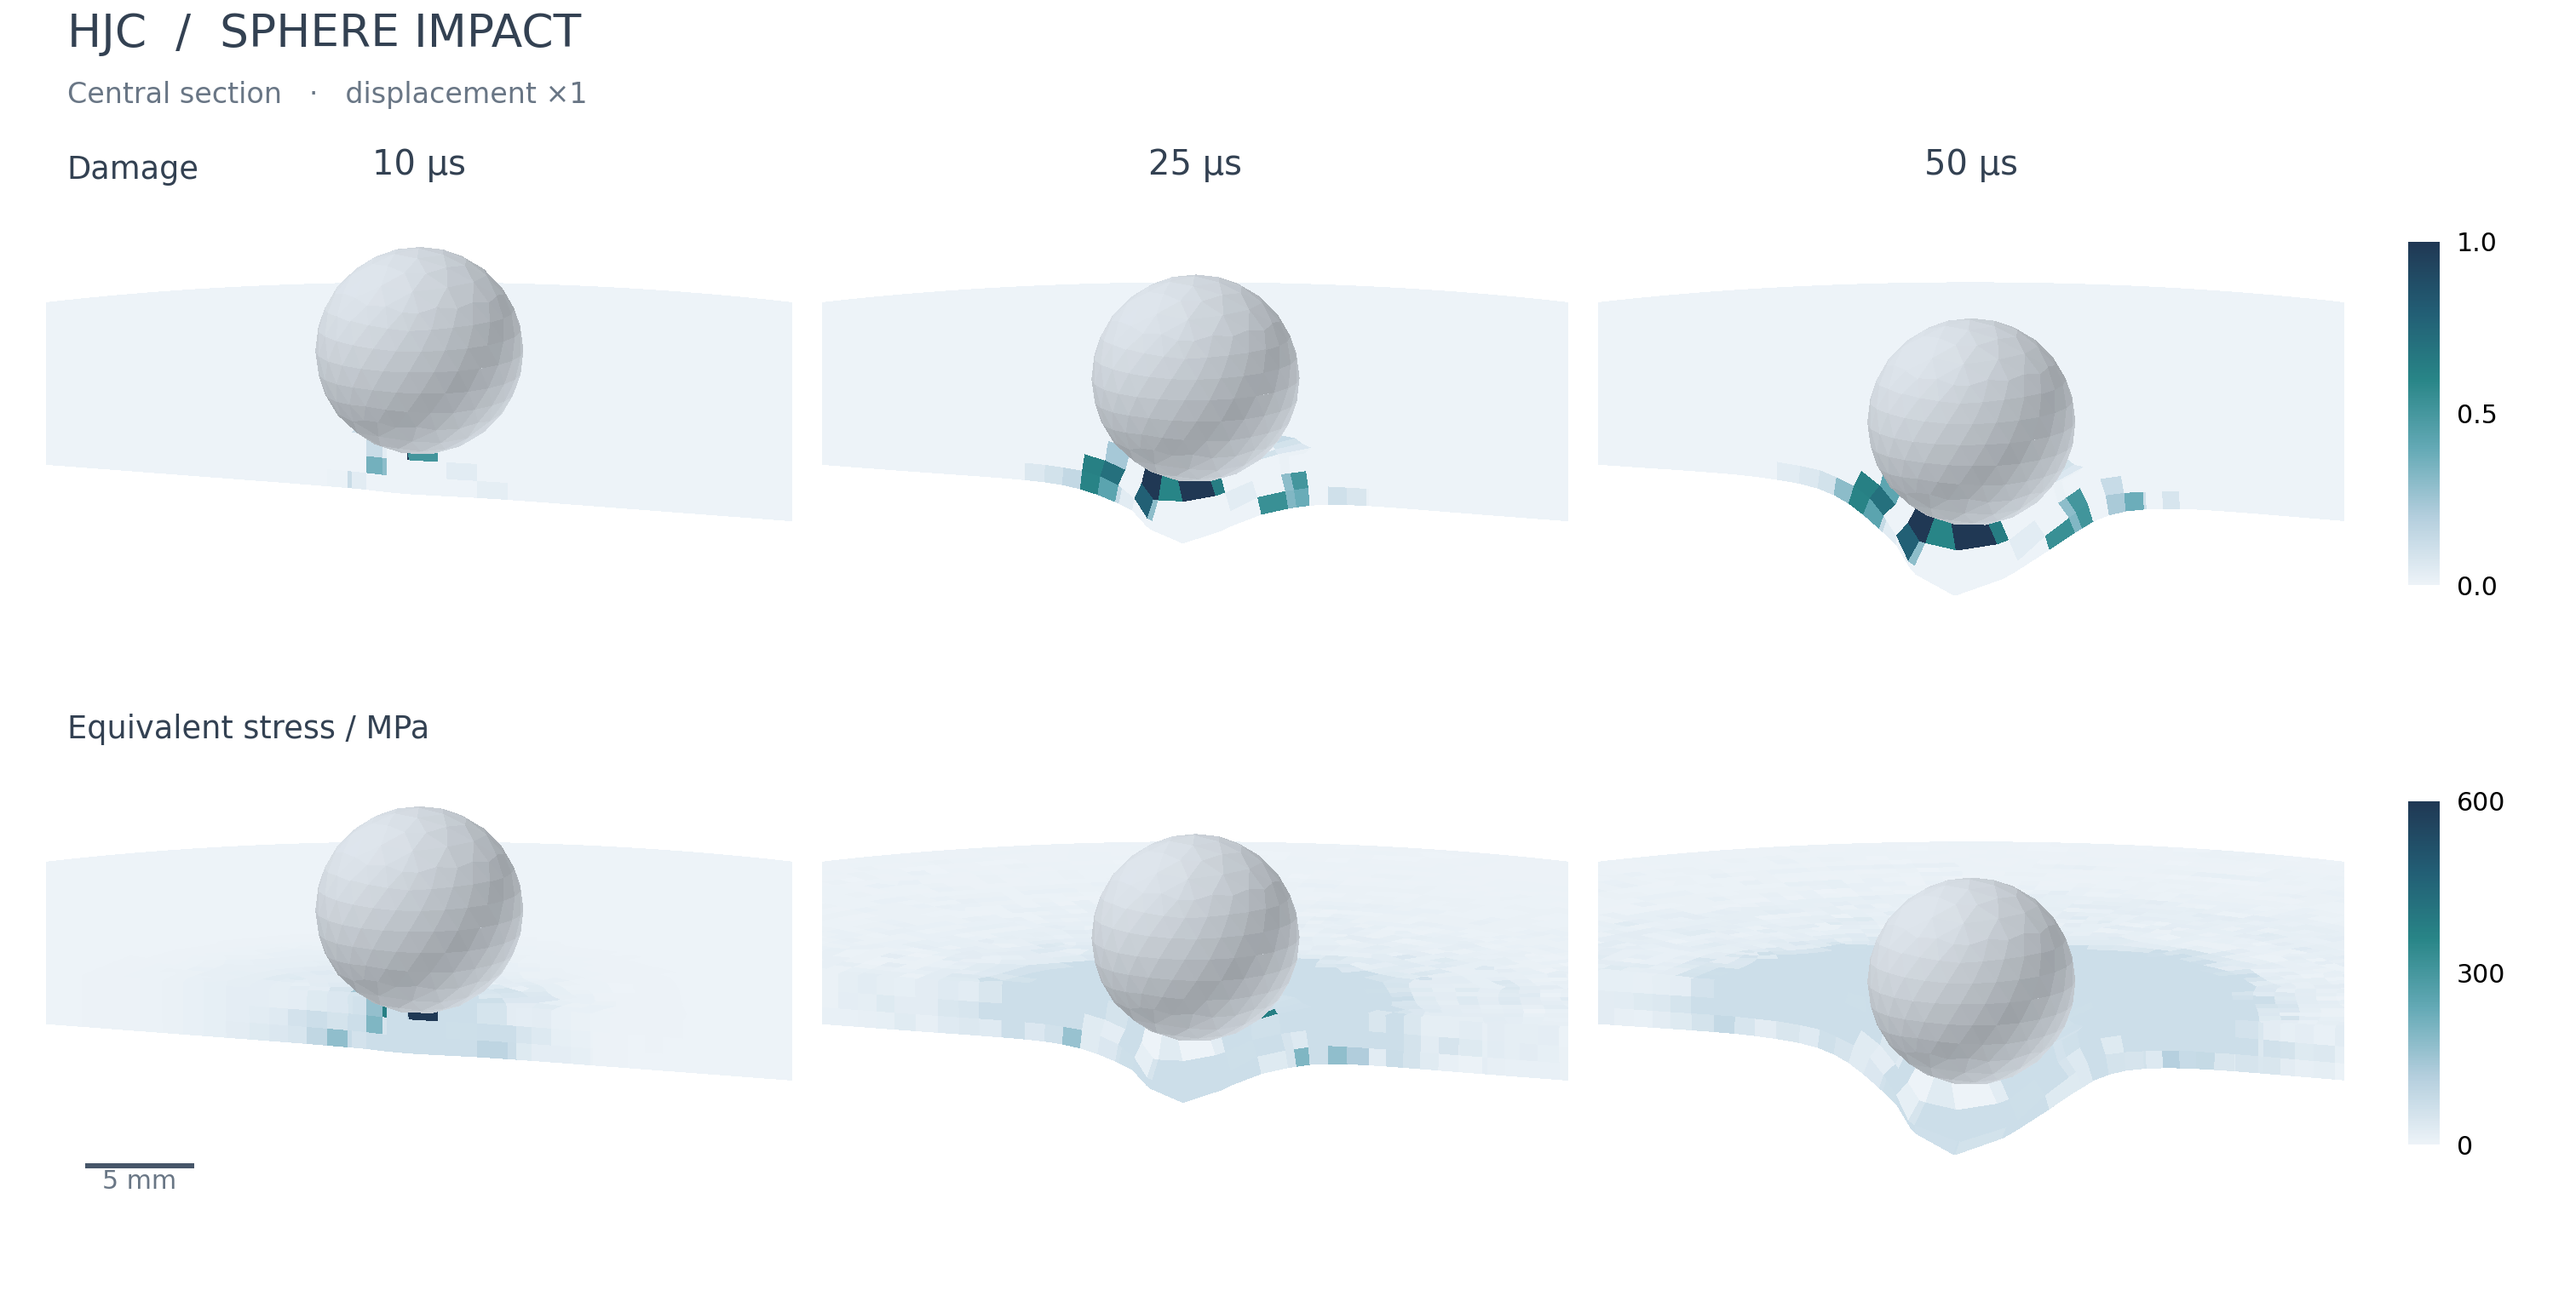
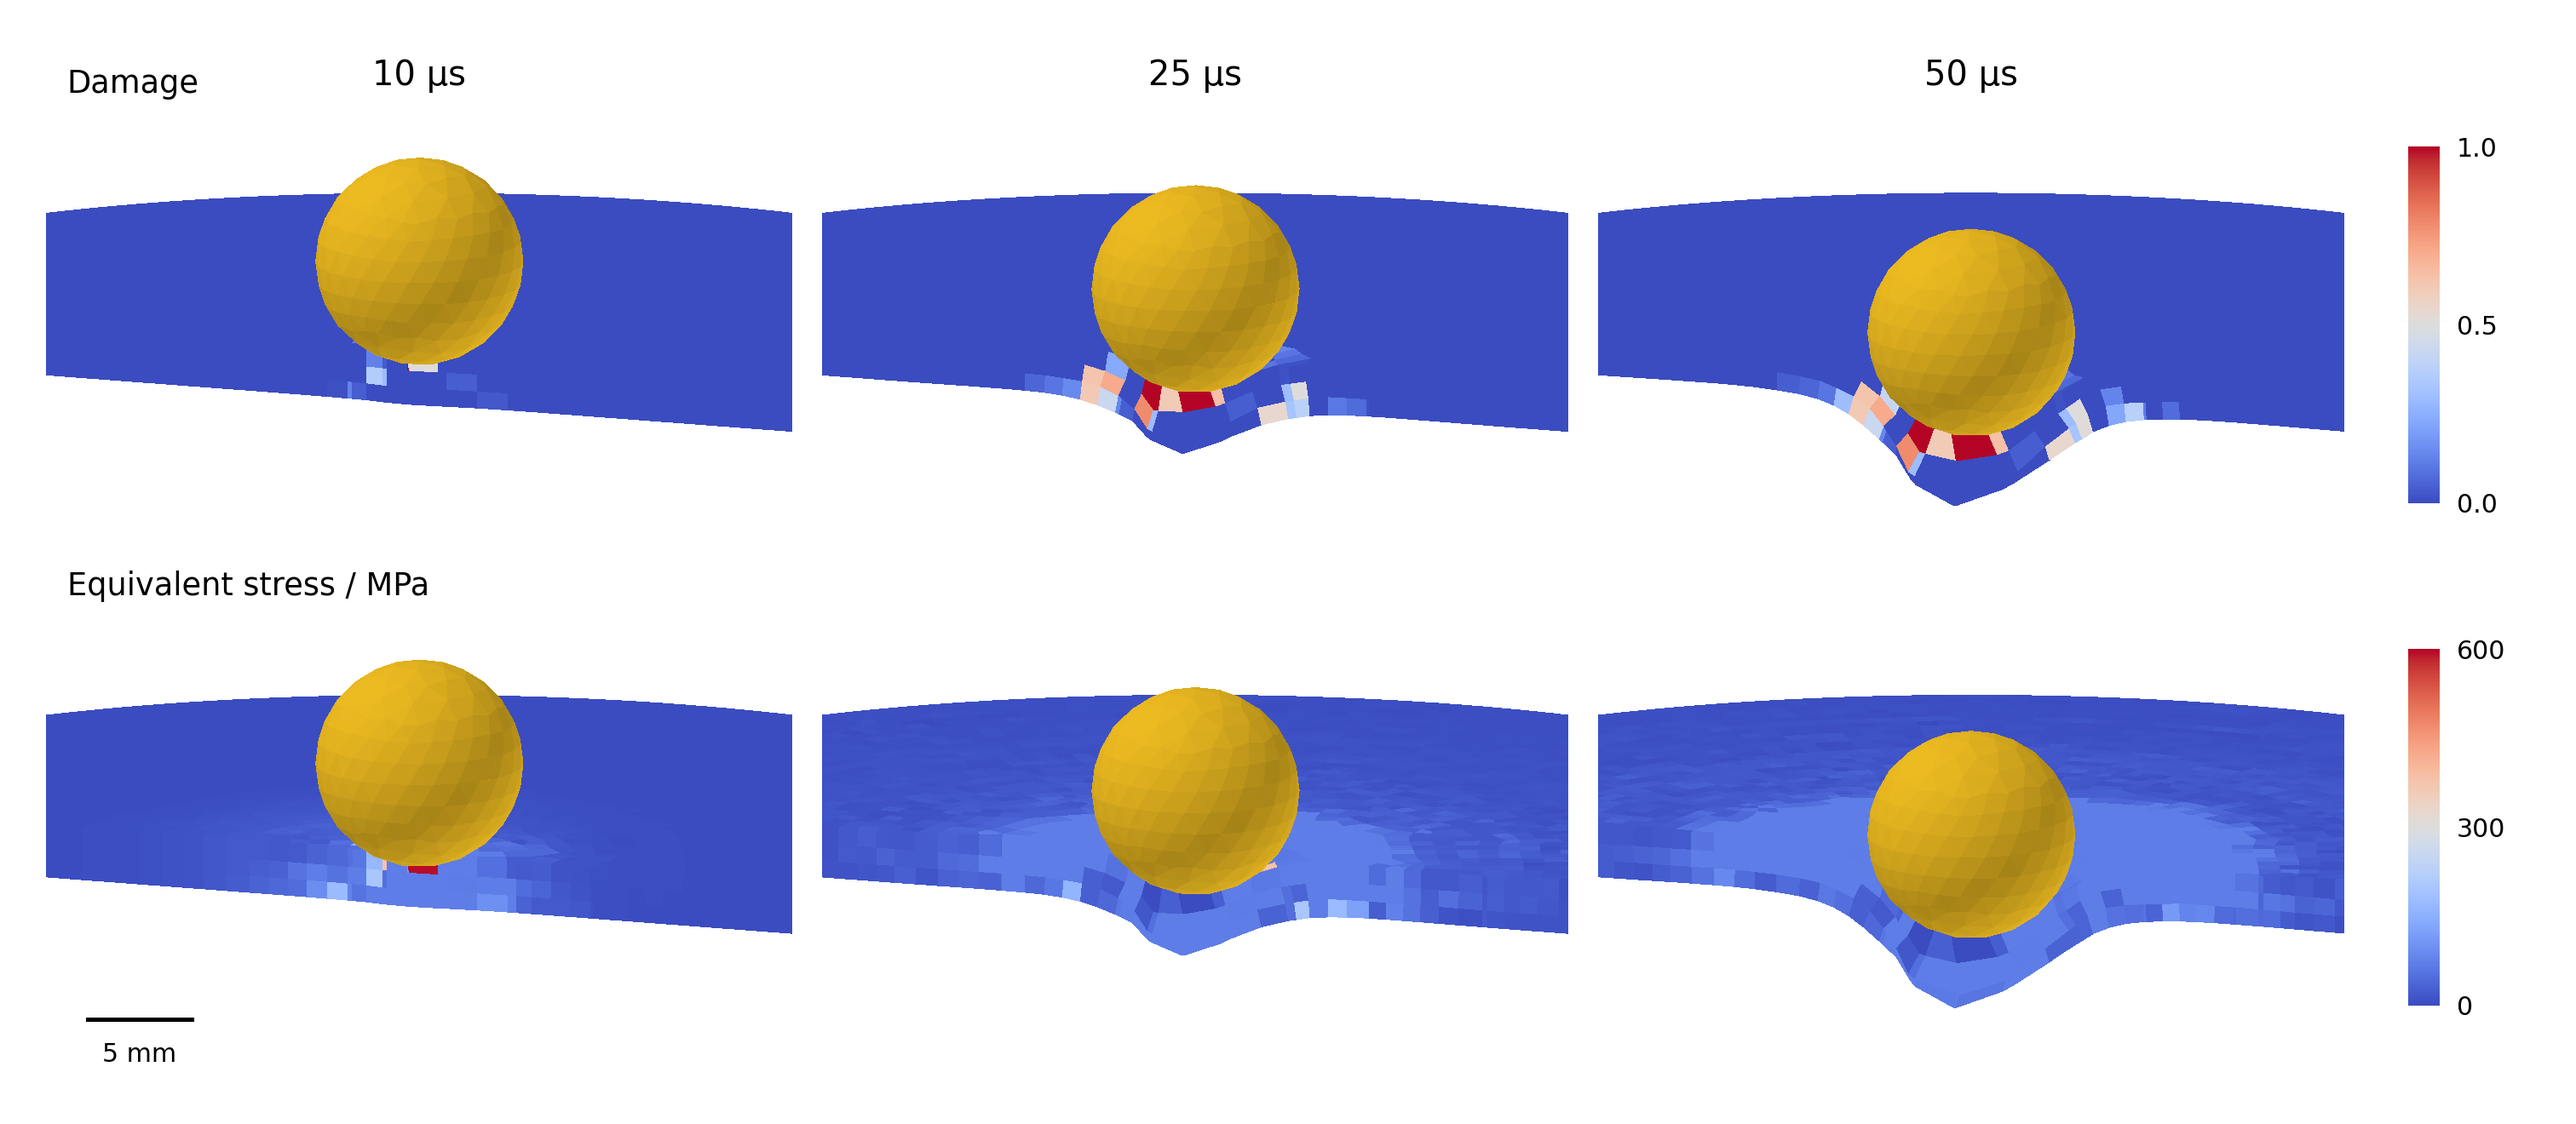
Add target damage views and match example visualizations

diff --git a/examples/hjc/plot_contours.py b/examples/hjc/plot_contours.py
@@ -1,11 +1,12 @@
 #!/usr/bin/env python3
 # SPDX-License-Identifier: BSD-3-Clause
-"""Render HJC impact fields on an advected central section of the original mesh.
+"""Render HJC impact fields on a central section or the target's upper surface.
 
 Requires NumPy, netCDF4 and Matplotlib. Input is serial/merged Exodus output.
 Cell values are not smoothed. Mesh-node displacements are volume averages of
 adjacent material-point displacements, for visualization only. No points are
 deleted based on damage. The disk retains the y>=0 half; the sphere is whole.
+With --top-view, show upper-surface target damage and omit the sphere.
 """
 import argparse
 from pathlib import Path
@@ -13,7 +14,8 @@ from pathlib import Path
 import matplotlib
 matplotlib.use('Agg')
 from matplotlib.collections import PolyCollection
-from matplotlib.colors import LinearSegmentedColormap, Normalize
+from matplotlib.colors import Normalize
+from matplotlib.patches import Rectangle
 import matplotlib.pyplot as plt
 from netCDF4 import Dataset, chartostring
 import numpy as np
@@ -82,6 +84,8 @@ def main():
     parser.add_argument('--times', nargs='+', type=float, default=[10., 25., 50.],
                         help='saved times in microseconds')
     parser.add_argument('--overview', action='store_true', help='show the entire half disk')
+    parser.add_argument('--top-view', action='store_true',
+                        help='target upper-surface damage, with a central close-up')
     parser.add_argument('--output', type=Path, default=Path('impact_contours.png'))
     args = parser.parse_args()
     with Dataset(args.mesh) as mesh, Dataset(args.file) as data:
@@ -98,7 +102,7 @@ def main():
             return np.asarray(data[f'vals_elem_var{index}eb{block}'][frame])
 
         blocks, offset = [], 0
-        for block in (1, 2):
+        for block in ((1,) if args.top_view else (1, 2)):
             cells = np.asarray(mesh[f'connect{block}'][:])-1
             particles = np.asarray(data[f'connect{block}'][:]).ravel()-1
             # Element_Id survives MPI partitioning; never assume output order.
@@ -112,7 +116,13 @@ def main():
                 raise ValueError('invalid material-point volumes')
             weight = np.repeat(volume, cells.shape[1])
             nodal_weight = np.bincount(cells.ravel(), weights=weight, minlength=len(points))
-            faces = section_faces(points, cells, cut=block == 1)
+            faces = section_faces(points, cells, cut=block == 1 and not args.top_view)
+            if args.top_view:
+                top = np.all(np.isclose(points[faces[0], 2], points[cells, 2].max()), axis=1)
+                if not np.any(top):
+                    raise ValueError('no planar upper surface in the target mesh')
+                faces = tuple(values[top] for values in faces)
+                print(f'{len(faces[3])} target upper-surface cells selected')
             blocks.append((block, cells, particles[order], order, weight, nodal_weight, faces))
 
         # Orthographic projection; all lengths and displacements use the same scale.
@@ -121,19 +131,22 @@ def main():
         eye = np.array([np.cos(azimuth)*np.cos(elevation),
                         np.sin(azimuth)*np.cos(elevation), np.sin(elevation)])
         projection = np.stack((right, np.cross(eye, right), eye), axis=1)
-        cmap = LinearSegmentedColormap.from_list('hjc',
-            ['#edf3f8', '#b3cedd', '#63a9b5', '#288587', '#225d74', '#203854'])
+        if args.top_view:
+            projection = np.eye(3)
+        # Match the white background and blue/gray/red fields in doc/slide-image-*.jpg.
+        cmap = plt.get_cmap('coolwarm')
         fields = [('HJC_Damage', 1., Normalize(0., 1.), 'Damage', [0., .5, 1.]),
                   ('Von_Mises_Stress', 1.e-6, Normalize(0., 600.),
                    'Equivalent stress / MPa', [0., 300., 600.])]
-        plt.rcParams.update({'font.size': 11, 'text.color': '#334152',
-                             'axes.labelcolor': '#334152', 'font.family': 'DejaVu Sans'})
-        figure, axes = plt.subplots(2, len(frames), figsize=(4.2*len(frames), 6.4),
+        if args.top_view:
+            fields = [fields[0], fields[0]]
+        plt.rcParams.update({'font.size': 11, 'text.color': 'black',
+                             'axes.labelcolor': 'black', 'font.family': 'DejaVu Sans'})
+        figure, axes = plt.subplots(2, len(frames),
+                                   figsize=(4.2*len(frames), 8. if args.top_view else 5.5),
                                    squeeze=False)
-        figure.subplots_adjust(left=.018, right=.91, bottom=.07, top=.86,
-                               wspace=.04, hspace=.18)
-        figure.text(.026, .964, 'HJC  /  SPHERE IMPACT', size=16, weight='medium')
-        figure.text(.026, .921, 'Central section   ·   displacement ×1', size=10, color='#697685')
+        figure.subplots_adjust(left=.018, right=.91, bottom=.065, top=.90,
+                               wspace=.04, hspace=.15)
 
         for column, frame in enumerate(frames):
             displacement = np.column_stack([
@@ -166,8 +179,9 @@ def main():
                                           vertices[:, 2]-vertices[:, 0])
                         length = np.linalg.norm(normal, axis=1)
                         brightness = .65+.28*abs(normal@np.array([-.4, -.5, .768]))/np.maximum(length, 1.e-30)
-                        colors.extend(np.column_stack((brightness*.94, brightness*.97,
-                                                       brightness, np.ones(len(vertices)))))
+                        # Use the distinct gold sphere from the upstream impact gallery.
+                        colors.extend(np.column_stack((brightness, brightness*.79,
+                                                       brightness*.14, np.ones(len(vertices)))))
                 depth = np.array([polygon[:, 2].mean() for polygon in polygons])
                 order = np.argsort(depth)
                 axis = axes[row, column]
@@ -176,23 +190,37 @@ def main():
                                     antialiased=False))
                 limits = ((-42., 42.), (-18., 31.)) if args.overview \
                     else ((-18., 18.), (-7., 14.))
+                if args.top_view:
+                    extent = 40. if row == 0 else 15.
+                    limits = ((-extent, extent), (-extent, extent))
+                    if row == 0:
+                        axis.add_patch(Rectangle((-15., -15.), 30., 30., fill=False,
+                                                 edgecolor='#C9CED6', linewidth=.6))
                 axis.set(xlim=limits[0], ylim=limits[1], aspect='equal')
                 axis.set_axis_off()
                 if row == 0:
                     axis.set_title(f'{times[frame]:g} μs', fontsize=12, pad=10)
-            print(f'{times[frame]:g} us: damage and equivalent stress rendered')
+            print(f'{times[frame]:g} us: fields rendered')
         for row, (_, _, norm, label, ticks) in enumerate(fields):
             position = axes[row, -1].get_position()
-            bar_axis = figure.add_axes((.935, position.y0+.04, .012, position.height-.07))
+            label = ['Target damage', 'Impact region'][row] if args.top_view else label
+            figure.text(.026, position.y1+.018, label, size=11)
+            if args.top_view and row == 1:
+                continue
+            bar_position = (.935, .22, .012, .52) if args.top_view \
+                else (.935, position.y0+.04, .012, position.height-.07)
+            bar_axis = figure.add_axes(bar_position)
             bar = figure.colorbar(plt.cm.ScalarMappable(norm=norm, cmap=cmap), cax=bar_axis,
                                  ticks=ticks)
             bar.outline.set_visible(False)
             bar.ax.tick_params(size=0, labelsize=9, pad=6)
-            figure.text(.026, position.y1+.018, label, size=11)
-        xbar, ybar = (-38., -12.) if args.overview else (-16., -5.5)
-        axes[1, 0].plot([xbar, xbar+5.], [ybar, ybar], color='#465669', lw=1.8)
-        axes[1, 0].text(xbar+2.5, ybar-1.5 if args.overview else ybar-1.1,
-                       '5 mm', ha='center', size=9, color='#697685')
+        bars = [(1, -14., -17., 5.), (0, -37., -37., 10.)] if args.top_view \
+            else [(1, -38., -12., 5.)] if args.overview else [(1, -16., -5.5, 5.)]
+        for row, xbar, ybar, length in bars:
+            axes[row, 0].plot([xbar, xbar+length], [ybar, ybar], color='black',
+                              lw=1.5, clip_on=False)
+            axes[row, 0].text(xbar+length/2., ybar-1.5 if args.top_view or args.overview
+                              else ybar-1.1, f'{length:g} mm', ha='center', va='top', size=9)
         figure.savefig(args.output, dpi=240, facecolor='white',
                        metadata={'Software': 'HJC impact visualization'})
         plt.close(figure)

diff --git a/examples/hjc/plot_impact.py b/examples/hjc/plot_impact.py
@@ -94,7 +94,7 @@ def main():
         'axes.labelcolor':'#34404D','xtick.color':'#59636F','ytick.color':'#59636F',
         'grid.color':'#E4E9ED','grid.linewidth':.6})
     figure,axes = plt.subplots(1,3,figsize=(11.5,3.4),layout='constrained')
-    colors = ['#4A78AE','#238C84','#D18C56','#273340']
+    colors = ['#3B4CC0','#B40426','#D2A329','#333333']
     summaries = []
     for index,(path,label) in enumerate(zip(args.files,labels)):
         curves,summary = read_history(path)

diff --git a/examples/hjc/README.md b/examples/hjc/README.md
@@ -112,10 +112,11 @@ python3 plot_contours.py hjc_disk_impact.e
 ![HJC damage and equivalent stress during sphere impact](impact_contours.png)
 
 The figure shows the central impact region at 10, 25 and 50 microseconds from
-the 25 ns run. Each field uses one fixed color scale across all frames. The
-reference y=0 section retains the y>=0 half of the disk beneath the complete,
-neutral-colored elastic sphere. The orthographic view uses a
-displacement scale of one and is cropped to the impact region.
+the 25 ns run. Its white background, blue/gray/red field colors and gold sphere
+follow the repository's [example gallery](../../README.md#examples). Each field
+uses one fixed color scale across all frames. The reference y=0 section retains
+the y>=0 half of the disk beneath the complete elastic sphere. The orthographic
+view uses a displacement scale of one and is cropped to the impact region.
 
 Material-point values are mapped by `Element_Id` to the original mesh cells
 without smoothing the fields. For visualization only, displacements are
@@ -130,6 +131,20 @@ volume-weighted RMS differences of 0.00436 in damage and 1.40 MPa in equivalent
 stress. Maximum pointwise differences are 0.0960 and 47.5 MPa, respectively;
 the small global-history differences do not establish convergence of local
 softening fields.
+
+For a plan view of target damage:
+
+```sh
+python3 plot_contours.py hjc_disk_impact.e --top-view --output impact_damage_top.png
+```
+
+![Target damage viewed from above, with central close-ups](impact_damage_top.png)
+
+The upper row shows the complete target; the outlined 30 mm square is enlarged
+below. Both rows use the same 0–1 damage scale. Values belong to the 4,815 cells
+on the original upper surface, with no averaging or maximization through the
+thickness. The sphere is hidden in this view. In-plane displacements retain a
+scale of one; nodal displacement projection is the same as in the section view.
 
 This is an early-time impact demonstration, not a perforation or fragmentation
 benchmark. HJC material damage does not remove particles or break bonds. The
